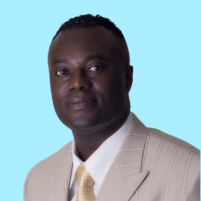
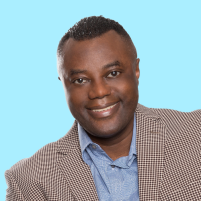
added portfolio img, updated Dr. Ross' img

diff --git a/portfolio.html b/portfolio.html
@@ -130,7 +130,7 @@
                         </div>
                     </div>
                 </div>
-                <div class="col-lg-4 col-6 mb-4 shuffle-item" data-groups="[&quot;design&quot;,&quot;branding&quot;]">
+                <!-- <div class="col-lg-4 col-6 mb-4 shuffle-item" data-groups="[&quot;design&quot;,&quot;branding&quot;]">
                     <div class="position-relative rounded hover-wrapper">
                         <img src="images/portfolio/item-6.png" alt="portfolio-image"
                             class="img-fluid rounded w-100 d-block">
@@ -165,7 +165,7 @@
                 </div>
                 <div class="col-lg-4 col-6 mb-4 shuffle-item" data-groups="[&quot;branding&quot;]">
                     <div class="position-relative rounded hover-wrapper">
-                        <img src="images/portfolio/item-1.png" alt="portfolio-image"
+                        <img src="images/portfolio/item-4.png" alt="portfolio-image"
                             class="img-fluid rounded w-100 d-block">
                         <div class="hover-overlay">
                             <div class="hover-content">
@@ -177,7 +177,7 @@
                 <div class="col-lg-4 col-6 mb-4 shuffle-item"
                     data-groups="[&quot;design&quot;,&quot;illustration&quot;,&quot;branding&quot;]">
                     <div class="position-relative rounded hover-wrapper">
-                        <img src="images/portfolio/item-3.png" alt="portfolio-image"
+                        <img src="images/portfolio/item-4.png" alt="portfolio-image"
                             class="img-fluid rounded w-100 d-block">
                         <div class="hover-overlay">
                             <div class="hover-content">
@@ -196,7 +196,7 @@
                             </div>
                         </div>
                     </div>
-                </div>
+                </div> -->
             </div>
         </div>
     </section>
